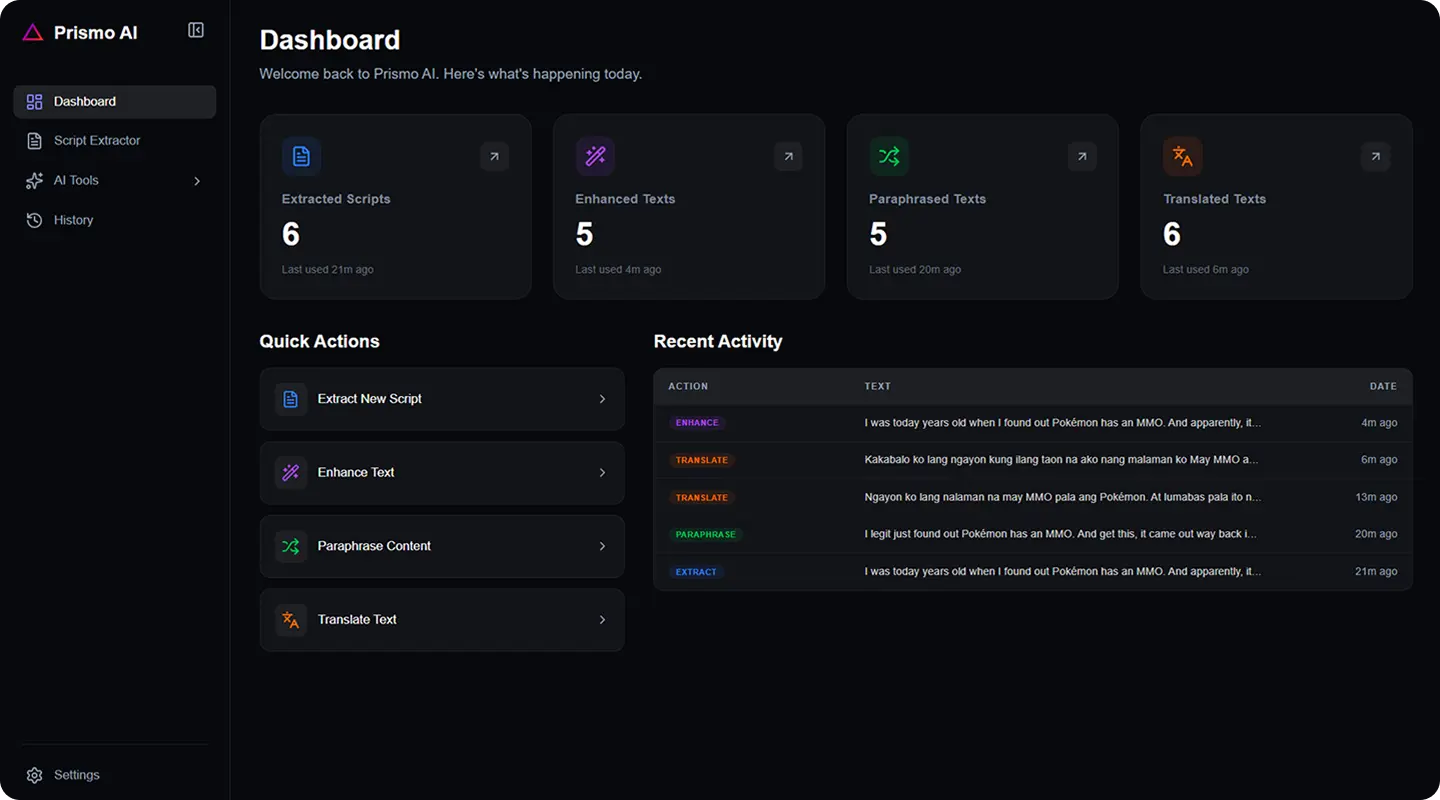
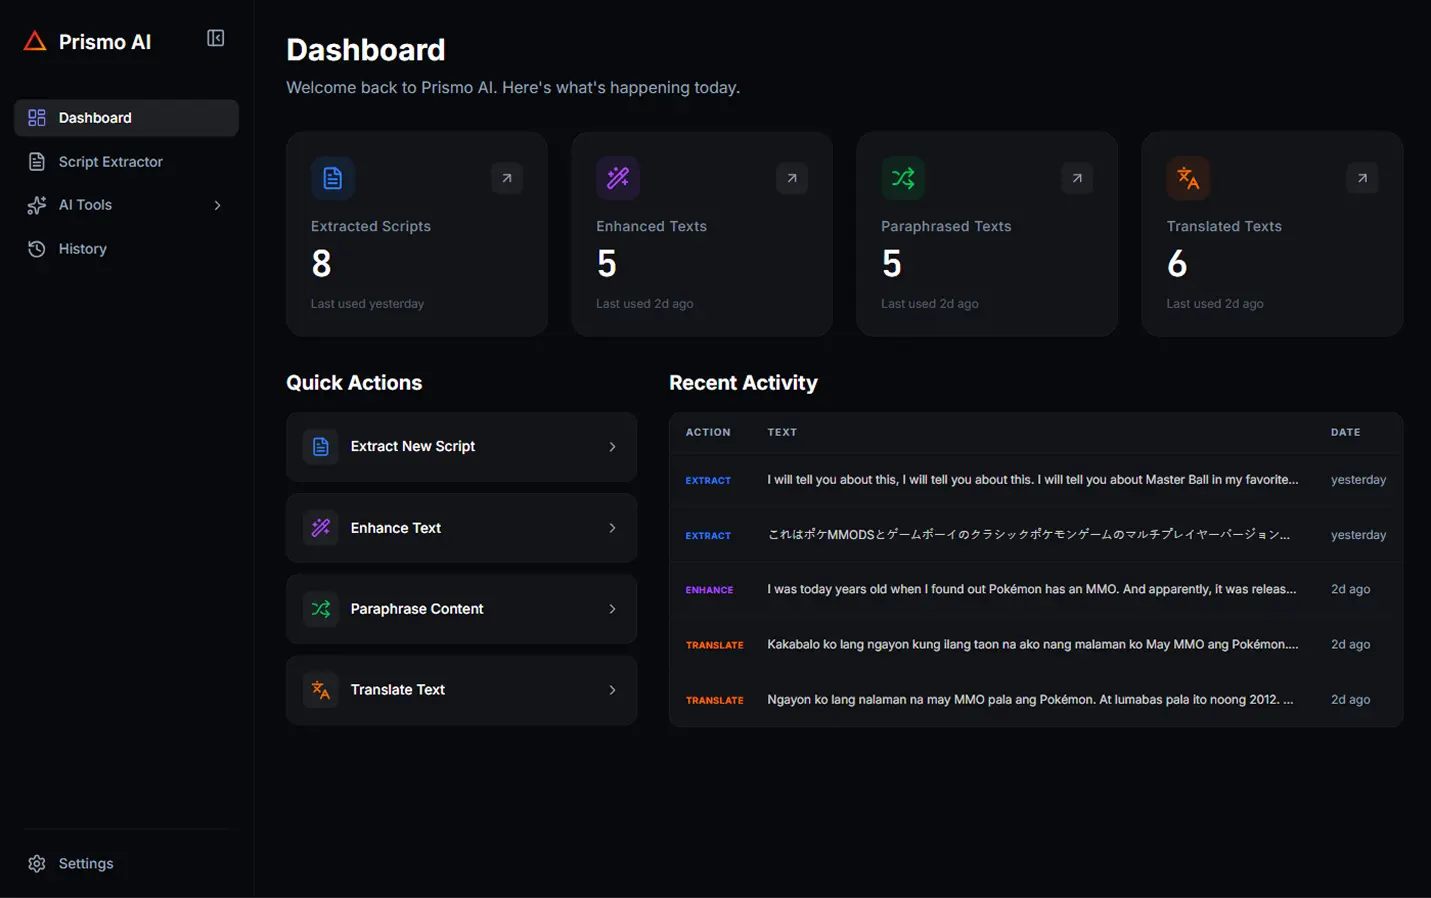
implemented SWR caching on historyitems, improved login, dashboard, and history UI

diff --git a/src/app/(app)/dashboard/page.tsx b/src/app/(app)/dashboard/page.tsx
@@ -156,24 +156,24 @@ export default function DashboardPage() {
                             <div className="overflow-x-auto">
                                 <table className="w-full text-left border-collapse">
                                     <thead>
-                                        <tr className="bg-foreground/5 border-b border-border text-[10px] font-bold uppercase tracking-widest text-muted">
-                                            <th className="px-4 py-3">Action</th>
-                                            <th className="px-4 py-3">Text</th>
-                                            <th className="px-4 py-3 text-right">Date</th>
+                                        <tr className="bg-foreground/0 border-b border-border text-[10px] font-bold uppercase tracking-widest text-muted">
+                                            <th className="pl-4 pr-0 py-3">Action</th>
+                                            <th className="pl-6 pr-4 py-3 w-full">Text</th>
+                                            <th className="px-4 py-3 text-left">Date</th>
                                         </tr>
                                     </thead>
                                     <tbody className="divide-y divide-border">
                                         {loading ? (
-                                            [...Array(4)].map((_, i) => (
-                                                <tr key={i} className="animate-pulse">
-                                                    <td className="px-4 py-4">
+                                            [...Array(5)].map((_, i) => (
+                                                <tr key={i} className="animate-pulse h-[55px]">
+                                                    <td className="pl-4 pr-0 py-3">
                                                         <div className="h-4 w-16 bg-foreground/10 rounded" />
                                                     </td>
-                                                    <td className="px-4 py-4">
-                                                        <div className="h-4 w-48 bg-foreground/10 rounded" />
+                                                    <td className="pl-6 pr-4 py-3 w-full max-w-0">
+                                                        <div className="h-4 w-4/5 bg-foreground/10 rounded" />
                                                     </td>
-                                                    <td className="px-4 py-4 text-right">
-                                                        <div className="h-4 w-12 bg-foreground/10 rounded ml-auto" />
+                                                    <td className="px-4 py-3 text-left">
+                                                        <div className="h-4 w-12 bg-foreground/10 rounded mr-auto" />
                                                     </td>
                                                 </tr>
                                             ))
@@ -185,21 +185,21 @@ export default function DashboardPage() {
                                             </tr>
                                         ) : (
                                             recentActivities.slice(0, 5).map((activity) => (
-                                                <tr key={activity.id} className="hover:bg-foreground/[0.01] transition-colors">
-                                                    <td className="px-4 py-3 text-xs font-semibold">
-                                                        <span className={`inline-flex items-center px-2 py-0.5 rounded-full text-[9px] font-bold uppercase tracking-wider ${
-                                                            activity.action === 'extract' ? 'bg-blue-500/10 text-blue-500' :
-                                                            activity.action === 'enhance' ? 'bg-purple-500/10 text-purple-500' :
-                                                            activity.action === 'paraphrase' ? 'bg-green-500/10 text-green-500' :
-                                                            'bg-orange-500/10 text-orange-500'
+                                                <tr key={activity.id} className="hover:bg-foreground/[0.01] transition-colors h-[55px]">
+                                                    <td className="pl-4 pr-0 py-3 text-xs font-semibold">
+                                                        <span className={`text-[9px] font-bold uppercase tracking-wider ${
+                                                            activity.action === 'extract' ? 'text-blue-500' :
+                                                            activity.action === 'enhance' ? 'text-purple-500' :
+                                                            activity.action === 'paraphrase' ? 'text-green-500' :
+                                                            'text-orange-500'
                                                         }`}>
                                                             {activity.action}
                                                         </span>
                                                     </td>
-                                                    <td className="px-4 py-3 text-xs text-foreground/80 max-w-[150px] sm:max-w-[250px] truncate">
+                                                    <td className="pl-6 pr-4 py-3 text-xs text-foreground/80 w-full max-w-0 truncate">
                                                         {activity.processed_text || activity.original_text}
                                                     </td>
-                                                    <td className="px-4 py-3 text-xs text-muted text-right whitespace-nowrap">
+                                                    <td className="px-4 py-3 text-xs text-muted text-left whitespace-nowrap">
                                                         {getRelativeTime(activity.created_at)}
                                                     </td>
                                                 </tr>

diff --git a/src/components/logoutModal.tsx b/src/components/logoutModal.tsx
@@ -1,0 +1,90 @@
+"use client";
+
+import React, { useState, useEffect } from 'react';
+import { LogOut, Loader2 } from 'lucide-react';
+import { createClient } from '@/utils/supabase/client';
+
+interface LogoutModalProps {
+    isOpen: boolean;
+    onClose: () => void;
+}
+
+export default function LogoutModal({ isOpen, onClose }: LogoutModalProps) {
+    const [isLoading, setIsLoading] = useState(false);
+
+    // Close on escape key press
+    useEffect(() => {
+        const handleKeyDown = (e: KeyboardEvent) => {
+            if (e.key === 'Escape' && isOpen) {
+                onClose();
+            }
+        };
+        window.addEventListener('keydown', handleKeyDown);
+        return () => window.removeEventListener('keydown', handleKeyDown);
+    }, [isOpen, onClose]);
+
+    if (!isOpen) return null;
+
+    const handleConfirmLogout = async () => {
+        setIsLoading(true);
+        try {
+            const supabase = createClient();
+            await supabase.auth.signOut();
+            window.location.href = '/login';
+        } catch (error) {
+            console.error('Error signing out:', error);
+            setIsLoading(false);
+        }
+    };
+
+    return (
+        <div className="fixed inset-0 z-50 flex items-center justify-center p-4">
+            {/* Overlay Backdrop */}
+            <div
+                className="absolute inset-0 bg-black/60 backdrop-blur-md transition-opacity duration-300 animate-in fade-in"
+                onClick={isLoading ? undefined : onClose}
+            />
+
+            {/* Modal Dialog */}
+            <div className="relative w-full max-w-[360px] bg-card/95 border border-border/80 rounded-2xl p-6 shadow-2xl backdrop-blur-xl animate-in fade-in zoom-in-95 duration-200 flex flex-col items-center text-center">
+                {/* Visual Icon Header */}
+                <div className="w-12 h-12 rounded-full bg-red-500/10 flex items-center justify-center text-red-500 mb-4 border border-red-500/20 shadow-[0_0_15px_rgba(239,68,68,0.1)]">
+                    <LogOut className="w-5 h-5" />
+                </div>
+
+                {/* Text Messages */}
+                <h3 className="text-lg font-bold text-foreground mb-2">
+                    Sign Out Confirm
+                </h3>
+                <p className="text-sm text-muted mb-6 max-w-[280px]">
+                    Are you sure you want to sign out?
+                </p>
+
+                {/* Control Actions */}
+                <div className="flex w-full gap-3">
+                    <button
+                        onClick={onClose}
+                        disabled={isLoading}
+                        className="flex-1 px-4 py-2.5 bg-foreground/5 hover:bg-foreground/10 text-foreground font-semibold rounded-xl transition-all border border-border disabled:opacity-50 cursor-pointer text-sm"
+                    >
+                        Cancel
+                    </button>
+                    <button
+                        onClick={handleConfirmLogout}
+                        disabled={isLoading}
+                        className="flex-1 px-4 py-2.5 bg-red-500 hover:bg-red-600 disabled:bg-red-500/50 text-white font-semibold rounded-xl transition-all shadow-lg shadow-red-500/10 hover:shadow-red-500/20 disabled:shadow-none flex items-center justify-center gap-2 cursor-pointer text-sm"
+                    >
+                        {isLoading ? (
+                            <>
+                                <Loader2 className="w-4 h-4 animate-spin" />
+                                <span>Signing out...</span>
+                            </>
+                        ) : (
+                            <span>Sign Out</span>
+                        )}
+                    </button>
+                </div>
+            </div>
+        </div>
+    );
+}

diff --git a/src/app/(app)/dashboard/history/[id]/page.tsx b/src/app/(app)/dashboard/history/[id]/page.tsx
@@ -1,5 +1,6 @@
 "use client";
 
+import useSWR from 'swr';
 import React, { useEffect, useState, use } from 'react';
 import { useRouter } from 'next/navigation';
 import { getHistoryById, HistoryRecord } from '@/lib/supabase/getHistory';
@@ -8,27 +9,17 @@ import { ArrowLeft, Calendar, Copy } from 'lucide-react';
 export default function HistoryDetailPage({ params }: { params: Promise<{ id: string }> }) {
     const { id } = use(params);
     const router = useRouter();
-    const [record, setRecord] = useState<HistoryRecord | null>(null);
-    const [loading, setLoading] = useState(true);
 
-    useEffect(() => {
-        if (!id) return;
+     const { data: record, error, isLoading } = useSWR(
+        id ? ['history', id] : null,
+        () => getHistoryById(id)
+    );
 
-        async function fetchRecord() {
-            setLoading(true);
-            const data = await getHistoryById(id);
-            setRecord(data);
-            setLoading(false);
-        }
-
-        fetchRecord();
-    }, [id]);
-
-    const handleCopy = (text: string) => {
+     const handleCopy = (text: string) => {
         navigator.clipboard.writeText(text);
     };
 
-    if (loading) {
+    if (isLoading) {
         return (
             <div className="flex-1 p-4 md:p-8 text-foreground flex items-center justify-center">
                 <div className="w-8 h-8 border-2 border-blue-500/30 border-t-blue-500 rounded-full animate-spin" />
@@ -49,8 +40,6 @@ export default function HistoryDetailPage({ params }: { params: Promise<{ id: st
             </div>
         );
     }
-
-
 
     return (
         <div className="flex-1 p-4 md:p-8 overflow-y-auto h-full text-foreground">

diff --git a/src/components/logoutButton.tsx b/src/components/logoutButton.tsx
@@ -1,23 +1,26 @@
 "use client";
 
-import React from 'react';
+import React, { useState } from 'react';
 import { LogOut } from 'lucide-react';
-import { createClient } from '@/utils/supabase/client';
+import LogoutModal from './logoutModal';
 
 export default function LogoutButton() {
-    const handleLogout = async () => {
-        const supabase = createClient();
-        await supabase.auth.signOut();
-        window.location.href = '/login';
-    };
+    const [isModalOpen, setIsModalOpen] = useState(false);
 
     return (
-        <button
-            onClick={handleLogout}
-            className="flex items-center gap-2 px-4 py-2 bg-red-500/10 text-red-500 font-semibold rounded-xl hover:bg-red-500/20 transition-all border border-red-500/20 hover:scale-[1.02] active:scale-[0.98] cursor-pointer"
-        >
-            <LogOut className="w-4 h-4" />
-            <span>Sign Out</span>
-        </button>
+        <>
+            <button
+                onClick={() => setIsModalOpen(true)}
+                className="flex items-center gap-2 px-4 py-2 bg-red-500/10 text-red-500 font-semibold rounded-xl hover:bg-red-500/20 transition-all border border-red-500/20 hover:scale-[1.02] active:scale-[0.98] cursor-pointer"
+            >
+                <LogOut className="w-4 h-4" />
+                <span>Sign Out</span>
+            </button>
+
+            <LogoutModal 
+                isOpen={isModalOpen} 
+                onClose={() => setIsModalOpen(false)} 
+            />
+        </>
     );
 }

diff --git a/src/app/(auth)/login/page.tsx b/src/app/(auth)/login/page.tsx
@@ -60,7 +60,7 @@ export default function LoginPage() {
                 className="w-20 h-20 md:w-24 md:h-24 mb-4"
               />
               <h1 className="text-xl md:text-3xl font-extrabold tracking-tight mb-1">
-                Welcome to <span className="bg-clip-text text-transparent bg-linear-to-r from-red-500 via-yellow-400 via-green-400 via-blue-500 to-purple-600">Prismo AI</span>
+                Welcome to <span className="animate-prismo">Prismo AI</span>
               </h1>
               <p className="text-sm text-muted mt-2">
                 Sign in to continue to your dashboard
@@ -118,7 +118,7 @@ export default function LoginPage() {
               width={1440}
               height={900}
               priority
-              className="w-[100%] xl:w-[110%] 2xl:w-[120%] h-auto max-w-none rounded-l-2xl border border-white/10 shadow-[0_0_80px_rgba(0,0,0,0.4)] transition-all duration-300"
+              className="w-[100%]  2xl:w-[120%] h-auto max-w-none rounded-l-2xl border border-white/10 shadow-[0_0_80px_rgba(0,0,0,0.4)] transition-all duration-300"
             />
           </div>
         </div>

diff --git a/src/components/historyTable.tsx b/src/components/historyTable.tsx
@@ -86,7 +86,7 @@ export default function HistoryTable() {
     return (
         <div className="w-full bg-card rounded-[15px] border border-border shadow-2xl backdrop-blur-sm overflow-x-auto">
             <table className="w-full text-left border-collapse">
-                <thead className="bg-foreground/5 border-b border-border overflow-visible rounded-t-[15px]">
+                <thead className="bg-foreground/0 border-b border-border overflow-visible rounded-t-[15px]">
                     <tr className="overflow-visible">
                         <th className="w-px whitespace-nowrap px-6 py-5 text-xs font-bold text-muted uppercase tracking-widest relative overflow-visible rounded-tl-[15px]">
                             <div className="relative">

diff --git a/src/app/(app)/dashboard/settings/page.tsx b/src/app/(app)/dashboard/settings/page.tsx
@@ -30,12 +30,12 @@ export default async function SettingsPage() {
                         </div>
                     </div>
 
-                    <div className="flex flex-col space-y-4">
+                    {/* <div className="flex flex-col space-y-4">
                         <h2 className="text-sm font-semibold text-muted uppercase tracking-wider ml-1">Preference</h2>
                         <div className="ml-1 pt-2">
                             <ThemeToggle />
                         </div>
-                    </div>
+                    </div> */}
                 </div>
             </div>
         </div>

diff --git a/src/app/globals.css b/src/app/globals.css
@@ -39,3 +39,31 @@ body {
   color: var(--foreground);
   font-family: Arial, Helvetica, sans-serif;
 }
+
+@keyframes prismo-gradient {
+  0% {
+    background-position: 0% 50%;
+  }
+  100% {
+    background-position: 200% 50%;
+  }
+}
+
+.animate-prismo {
+  background-image: linear-gradient(
+    to right,
+    #ff0000,
+    #ff7f00,
+    #ffff00,
+    #00ff00,
+    #00ffff,
+    #0000ff,
+    #8b00ff,
+    #ff0000
+  );
+  background-size: 200% auto;
+  -webkit-background-clip: text;
+  background-clip: text;
+  -webkit-text-fill-color: transparent;
+  animation: prismo-gradient 12s linear infinite;
+}
